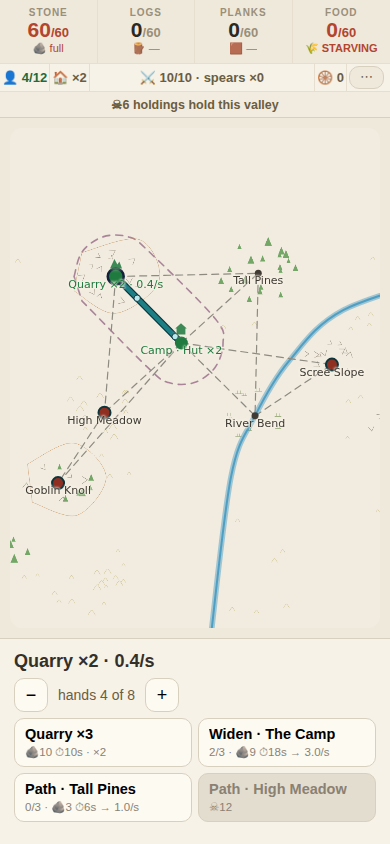
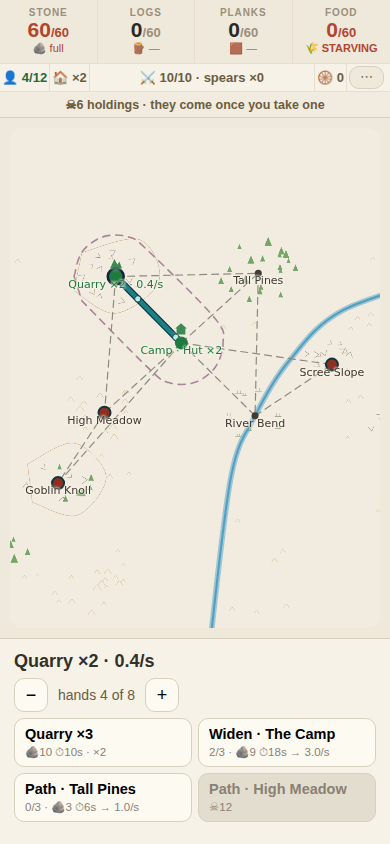
THE HUT BUG WAS ONE LINE, AND A RAID NOW HAS AN ANSWER
"my save got super bugged, huts were disappearing... also the goblin raids
mechanics is unclear how it happens, why and what can you do about it."

IT WAS NOT A CORRUPT SAVE. The rule was "come for the fullest thing you
can reach", and the fullest pile in any town is the camp's HUTS. So every
raider on the map queued up on the housing, which is the one stack that
gates people, and people gate everything else. Simulated on a going
concern with three raiders, before the fix:

  start          huts 5   pop cap 24
  after raid 1   huts 2   pop cap 12
  after raid 2   huts 0   pop cap  4     twenty people unhoused and idle

and then the camp fell and the run froze, which is what a bugged save
looks like from the outside. The comment beside the bare-ground branch
already claimed the camp goes last; it simply was not true of ground with
anything standing on it. It is now, and the works are eaten first.

WHAT YOU CAN DO ABOUT IT had no answer at all. The only lever was to
conquer the holding faster, which a town under three raiders often
cannot. A hero AT HOME -- not fighting, not foraging, not beaten -- now
turns one raid away, and bleeds that holding while doing it, so defending
is also slow progress toward taking it.

ONE HERO, ONE GATE. The first cut let a single idle hero repel every
holding on the map in the same instant, which is the mechanic deleting
itself: I simulated it, saw eight straight cycles with nothing lost at
[…]

Changed region(s): [[0.1846, 0.0924, 0.8308, 0.154]]

diff --git a/test/campbuilder.test.ts b/test/campbuilder.test.ts
@@ -13,7 +13,7 @@ import { apply, initial, flow, shown, popCap, pathKey, costOf, pathCostOf, heroM
   richOf, MAX_GAUGE, roomOf, storeCost, STORE_BASE, STORE_ROOM,
   carriesOf, cartCost, cartHaul, CART_GAIN,
   raiders, raidTarget, RAID_SECS, CAMP_ROOM,
-  FORAGE_SECS, FORAYS, nextForay, unforageable, faminePinch, START_FOOD, FAMINE_DEEP,
+  FORAGE_SECS, FORAYS, nextForay, unforageable, faminePinch, START_FOOD, FAMINE_DEEP, onWatch,
   RATION_FOOD, RATION_HP, RATION_PACK,
   BLOW_SECS, blowLeft, SPEAR_NAME, SPEAR_MADE, spearLabel,
   HERO_HP, HEAL_SECS, WILD_FED, EAT, CAPTIVES,
@@ -1646,8 +1646,14 @@ describe('★★★ THE RAID — held ground takes something back', () => {
   // ⚠ `taken: 1` IS LOAD-BEARING: the goblins ignore a camp that has never
   // touched them (see FIRST BLOOD below), so a besieged fixture has to have
   // drawn blood already.
+  // ⚠ THE HERO IS OUT, AND THAT IS LOAD-BEARING (2026-08-10). A hero at home
+  // turns one raid away, and `hp: 0` is not enough on its own because a
+  // 300-second cycle is long enough for them to HEAL — which is a real and
+  // wanted property (one healed hero can just about hold one gate), but it
+  // means a fixture about a raid LANDING has to keep them genuinely away.
   const pressed = (over: Partial<City> = {}): City => ({
     ...initial(), pop: 12, food: 900, taken: 1,
+    hero: { hp: 0, spears: 0, part: 0 }, forage: { left: 9e8, secs: 9e8 },
     stacks: { 0: 4, 1: 2 }, paths: { [pathKey(0, 1)]: 2 },
     goblins: { 4: 12 }, ...over });
 
@@ -1680,9 +1686,12 @@ describe('★★★ THE RAID — held ground takes something back', () => {
     const half = tick(g, RAID_SECS / 2);
     expect(half.menace[4]).toBeCloseTo(0.5, 2);
     expect(half.stacks[0]).toBe(4);
-    // ...and when it comes due, the camp loses a hut and the holding resets.
+    // ...and when it comes due a BUILDING goes and the holding resets.
+    // ⚠ Not the camp's hut: since 2026-08-10 the camp is last for stacked
+    // ground too, so the pit at Rock Face is what they come for.
     const hit = tick(g, RAID_SECS + 1);
-    expect(hit.stacks[0]).toBe(3);
+    expect(hit.stacks[1]).toBe(1);
+    expect(hit.stacks[0]).toBe(4);
     expect(hit.menace[4]).toBe(0);
   });
 
@@ -1691,9 +1700,11 @@ describe('★★★ THE RAID — held ground takes something back', () => {
     // 144 raids' worth of time. Not one of them lands.
     const away = catchUp(pressed(), 12 * 3600);
     expect(away.stacks[0]).toBe(4);
-    // It waits at the gate, full, and breaks on the first watched tick.
+    expect(away.stacks[1]).toBe(2);
+    // It waits at the gate, full, and breaks on the first watched tick —
+    // taking the works, with the camp's roof still last in the queue.
     expect(away.menace[4]).toBe(1);
-    expect(tick(away, 1).stacks[0]).toBe(3);
+    expect(tick(away, 1).stacks[1]).toBe(1);
   });
 
   it('★ a raid never digs a stack below nothing, and never touches the goods', () => {
@@ -1731,8 +1742,10 @@ describe('★★★ THE RAID — held ground takes something back', () => {
 // half of the owner's answer: *"make hero lose and restart stronger."*
 // ---------------------------------------------------------------------------
 describe('★★★ LOSE THE VALLEY, KEEP THE VETERAN', () => {
+  // ⚠ Out on a foray — see `pressed` above.
   const war = (over: Partial<City> = {}): City => ({
     ...initial(), pop: 12, food: 900, taken: 1,
+    hero: { hp: 0, spears: 0, part: 0 }, forage: { left: 9e8, secs: 9e8 },
     stacks: { 0: 1 }, goblins: { 4: 12 }, ...over });
 
   it('★★★ FIRST BLOOD STARTS THE WAR — an untouched camp is never raided', () => {
@@ -2264,5 +2277,76 @@ describe('★★★ FOOD MATTERS FROM THE START, AND FAMINE IS A SQUEEZE', () =>
     const hungry: City = { ...initial(), famine: 60, food: 500, pop: 4 };
     expect(tick(hungry, 10).famine).toBeCloseTo(40, 6);
     expect(tick(hungry, 600).famine).toBe(0);
+  });
+});
+
+// ---------------------------------------------------------------------------
+// ★★★ THE RAID, MADE FAIR AND MADE PLAIN — 2026-08-10. The owner: *"my save got
+// super bugged, huts were disappearing… also the goblin raids mechanics is
+// unclear how it happens, why and what can you do about it."*
+// ---------------------------------------------------------------------------
+describe('★★★ RAIDS EAT THE WORKS, NOT THE ROOF', () => {
+  const town = (over: Partial<City> = {}): City => ({ ...initial(), taken: 1,
+    pop: 20, food: 9e5, stacks: { 0: 5, 1: 3, 2: 3, 3: 2 },
+    paths: { [pathKey(0, 1)]: 2, [pathKey(0, 2)]: 2, [pathKey(0, 3)]: 2 },
+    hero: { hp: 0, spears: 1, part: 0 }, ...over });
+
+  it('★★★ THE HUT BUG: the camp was the fullest pile, so every raid ate it', () => {
+    // This is what "my huts kept disappearing" was. The rule said "come for
+    // the fullest thing you can reach" and the fullest pile in ANY town is
+    // the camp's huts — so every raider on the map queued on the housing,
+    // which is the one stack that gates people, which gate everything.
+    const g = town();
+    // Raiders that have a works within reach come for the WORKS.
+    expect(raidTarget(g, 4)).not.toBe(0);
+    expect(raidTarget(g, 5)).not.toBe(0);
+    expect(SITE.get(raidTarget(g, 4)!)!.allows).not.toBe('hut');
+  });
+
+  it('★★ housing survives while there is anything else to take', () => {
+    // Measured over three cycles: before the fix, huts went 5 → 2 → 0 and
+    // the population cap collapsed 24 → 4 with twenty people left idle.
+    let g = town();
+    const capBefore = popCap(g);
+    for (let i = 0; i < 2; i++) g = tick(g, RAID_SECS + 1);
+    expect(g.stacks[0]!).toBeGreaterThan(0);
+    expect(popCap(g)).toBeGreaterThan(capBefore / 2);
+  });
+
+  it('★★★ THE ANSWER: a hero at home turns a raid away', () => {
+    // "What can you do about it" had no answer but "conquer faster", which
+    // a town under three raiders often cannot.
+    const away: City = { ...town(), hero: { hp: 0, spears: 1, part: 0 } };
+    expect(onWatch(away)).toBe(false);
+    const home: City = { ...town(), hero: { hp: heroMax(town()), spears: 1, part: 0 } };
+    expect(onWatch(home)).toBe(true);
+    const hit = tick(away, RAID_SECS + 1);
+    const held = tick(home, RAID_SECS + 1);
+    const lost = (x: City): number => [0, 1, 2, 3]
+      .reduce((n, id) => n + ((town().stacks[id] ?? 0) - (x.stacks[id] ?? 0)), 0);
+    expect(lost(held)).toBeLessThan(lost(hit));
+    // And turning one away BLEEDS that holding — defending is slow progress.
+    expect(held.goblins[4]!).toBeLessThan(home.goblins[4]!);
+  });
+
+  it('★★★ ONE HERO, ONE GATE — standing watch is not a wall', () => {
+    // A single idle hero used to repel every holding on the map in the same
+    // instant, which is the mechanic deleting itself.
+    const home: City = { ...town(), hero: { hp: heroMax(town()), spears: 1, part: 0 } };
+    expect(raiders(home).length).toBeGreaterThan(1);
+    const after = tick(home, RAID_SECS + 1);
+    const lost = [0, 1, 2, 3]
+      .reduce((n, id) => n + ((home.stacks[id] ?? 0) - (after.stacks[id] ?? 0)), 0);
+    expect(lost).toBeGreaterThan(0);            // some got through
+    expect(lost).toBeLessThan(raiders(home).length);   // but not all
+  });
+
+  it('★★ the watch costs the foray and the march — you cannot do both', () => {
+    const home: City = { ...town(), hero: { hp: heroMax(town()), spears: 1, part: 0 } };
+    expect(onWatch(apply(home, { type: 'forage' }))).toBe(false);
+    expect(onWatch({ ...home, fight: { site: 4, sq: [], round: 0, packs: 0,
+      target: 0, blow: null } as never })).toBe(false);
+    // And a hero beaten home cannot hold the walls either.
+    expect(onWatch({ ...home, hero: { hp: 0, spears: 1, part: 0 } })).toBe(false);
   });
 });

diff --git a/src/camp/engine.ts b/src/camp/engine.ts
@@ -138,7 +138,26 @@ export function raidTarget(g: City, id: number): number | null {
   for (const n of s.near) {
     if (g.goblins[n]) continue;
     if ((g.stacks[n] ?? 0) > 0) {
-      if (best === null || (g.stacks[n] ?? 0) > (g.stacks[best] ?? 0)) best = n;
+      // ★★★ THE CAMP IS LAST FOR STACKED GROUND TOO, 2026-08-10.
+      //
+      // ⚠ THIS IS THE "MY HUTS KEPT DISAPPEARING" BUG, and it was not a save
+      // corruption — it was this line. The rule was "come for the fullest
+      // thing you can reach", and the fullest pile in any town is the CAMP's
+      // huts. So every raider on the map queued up on the camp and ate
+      // housing, which is the one stack that gates everything else.
+      //
+      // Simulated before the fix, three raiders on a going concern:
+      //   start   huts 5   cap 24
+      //   raid 1  huts 2   cap 12
+      //   raid 2  huts 0   cap  4   ← twenty people now unhoused and idle
+      // and the run was over inside two cycles, opaquely.
+      //
+      // The comment beside `bare` below already claimed the camp goes last.
+      // It just was not true of the ground that had anything on it.
+      const better = best === null
+        || (best === 0 && n !== 0)
+        || (n !== 0 && (g.stacks[n] ?? 0) > (g.stacks[best] ?? 0));
+      if (better && !(n === 0 && best !== null && best !== 0)) best = n;
     } else if (bare === null || (bare === 0 && n !== 0)) {
       // ★ NOTHING LEFT TO BURN MEANS THEY TAKE THE GROUND. A site they
       // strip bare is a site they can hold — and THE CAMP LAST OF ALL,
@@ -576,6 +595,16 @@ export const FORAYS: readonly Foray[] = [
 ];
 /** Which encounter the next foray meets. */
 export const nextForay = (g: City): Foray => FORAYS[g.forays % FORAYS.length]!;
+/** ★★★ IS THE HERO STANDING WATCH? Home, whole enough to fight, and not
+ *  away on a foray. The owner, after a run: *"the goblin raids mechanics is
+ *  unclear how it happens, why and what can you do about it."* The last
+ *  third had no answer — the only lever was to conquer the holding faster,
+ *  which a town under three raiders often cannot do. A hero kept at home
+ *  turns raids away, so the player's real choice is now what to spend the
+ *  hero's time ON: loot, ground, or the walls. */
+export const onWatch = (g: City): boolean =>
+  !g.lost && !g.fight && !g.forage && g.hero.hp > 0;
+
 /** Seconds left on the hero's foray, or null when they are home. */
 export const forageLeft = (g: City): number | null => g.forage?.left ?? null;
 /** Why the hero cannot go out, or null. */
@@ -1422,6 +1451,12 @@ export function apply(g: City, a: Action): City {
         else { loot = nextForay(g).loot; forays = g.forays + 1; forage = null; }
       }
       let lost: boolean = g.lost;
+      // ⚠ ONE HERO, ONE GATE. Read once before any raid resolves, and SPENT
+      // by the first one turned away — otherwise a single idle hero repelled
+      // every holding on the map at once and the war became free, which is
+      // the mechanic deleting itself. Three raiders means one is stopped and
+      // two get through; the defence is real, and it is not a wall.
+      let watch = onWatch(g);
       if (!a.away) {
         for (const id of able) {
           if ((menace[id] ?? 0) < 1) continue;
@@ -1429,6 +1464,17 @@ export function apply(g: City, a: Action): City {
           if (t === null) continue;
           if (menace === g.menace) menace = { ...g.menace };
           menace[id] = 0;
+          // ★★★ THE HERO TURNS IT AWAY. Standing watch costs the foray and
+          // the march, which is the price: you cannot loot, take ground and
+          // hold the walls with one person. A repelled raid BLEEDS the
+          // holding, so defending is also slow progress toward taking it.
+          if (watch) {
+            watch = false;
+            if (goblins === g.goblins) goblins = { ...goblins };
+            goblins[id] = Math.max(1, (goblins[id] ?? 1) - heroHit(g));
+            hero = { ...hero, hp: Math.max(0, hero.hp - (GOBLINS[id]?.bite ?? 2)) };
+            continue;
+          }
           if ((stacks[t] ?? 0) > 0) {
             if (stacks === g.stacks) stacks = { ...g.stacks };
             stacks[t] = stacks[t]! - 1;

diff --git a/src/ui/Camp.svelte b/src/ui/Camp.svelte
@@ -9,7 +9,7 @@
     priceLine, unlayable, unraisable, unassailable, heroHit, spearCost, hunger,
     heroMax, WILD_FED, SITE, GOBLINS, RATE, MAX_GAUGE, CREW, PATH_SECS,
     raisingLeft, buildSecs, housed, blowLeft, spearLabel, SPEAR_MADE,
-    unforageable, nextForay, forageLeft, FORAGE_SECS,
+    unforageable, nextForay, forageLeft, FORAGE_SECS, onWatch, RAID_SECS,
     richOf, storeCost, roomOf, STORE_ROOM, cartCost, cartHaul, CARRY, CART_GAIN,
     raiders, raidTarget,
     windup, RATION_FOOD, RATION_HP,
@@ -447,8 +447,13 @@
       // which broke the check that the gates advertise their own artery.
       const m = game.menace[picked] ?? 0;
       const at = raidTarget(game, picked);
+      // ★ THE WHOLE RULE, where the danger is: how full the clock is, what
+      // it comes for, how often, and the two things that stop it.
       const clock = m > 0 && at !== null
         ? ` · ${MARK.waste}${Math.round(m * 100)}% → ${SITE.get(at)?.name ?? ''}`
+          + ` every ${RAID_SECS}s · takes 1 building`
+          + ` · ${onWatch(game) ? `${MARK.hero} home turns one away`
+            : `${MARK.hero} away — nothing turns it away`}`
         : '';
       return `${MARK.danger}${Math.ceil(game.goblins[picked] ?? 0)}`
         + prizeOf(picked) + clock;
@@ -659,12 +664,22 @@
          camp is gonna happen. And if it's gonna happen."* The raid clock
          existed but only on the holding's own panel, which you had to go and
          tap — a war you cannot see coming is not a clock. -->
+    <!-- ★★★ HOW, WHY, AND WHAT TO DO — 2026-08-10. The owner: *"the goblin
+         raids mechanics is unclear how it happens, why and what can you do
+         about it."* All three go on one line, always:
+           HOW  — a percentage that fills, and the site it is coming for
+           WHY  — it only starts once you have taken ground (first blood)
+           WHAT — the hero stops one raid by being HOME, and taking the
+                  holding stops its clock for good -->
     <div class="warline" class:hot={worst !== null && worst.m > 0.6} data-q="war">
       {#if worst !== null}
         {MARK.waste}{Math.round(worst.m * 100)}% → {worst.at}
+        · {onWatch(game) ? `${MARK.hero} on watch` : `${MARK.hero} away`}
         · {MARK.danger}{holdings} left
+      {:else if holdings > 0}
+        {MARK.danger}{holdings} holdings · they come once you take one
       {:else}
-        {MARK.danger}{holdings} holdings hold this valley
+        {MARK.danger}0 · the valley is yours
       {/if}
     </div>
     {#if menu}

diff --git a/docs/CITY.md b/docs/CITY.md
@@ -817,3 +817,58 @@ guard, which is how it was caught.
 halt the quarries stopped dead and the bread got through on the very next
 frame. A squeeze has to bite before it frees the road, so a measured town
 digs itself out in tens of seconds rather than instantly.
+
+
+## ★★★ THE HUT BUG, AND WHAT YOU CAN DO ABOUT A RAID — 2026-08-10
+
+> *"my save got super bugged, huts were disappearing… also the goblin raids
+> mechanics is unclear how it happens, why and what can you do about it"*
+
+**It was not a corrupt save. It was one line.** The rule was *"come for the
+fullest thing you can reach"*, and the fullest pile in any town is the camp's
+**huts** — so every raider on the map queued on the housing, which is the one
+stack that gates people, and people gate everything. Simulated before the fix,
+three raiders on a going concern:
+
+| | huts | pop cap |
+|---|---|---|
+| start | 5 | 24 |
+| after raid 1 | 2 | 12 |
+| after raid 2 | **0** | **4** |
+
+Twenty people unhoused and idle, then the camp fell. The comment beside the
+bare-ground branch **already claimed the camp goes last** — it just was not
+true of ground with anything on it. It is now.
+
+### What you can do about it: three answers, all on screen
+
+The last third of the complaint had no answer at all. The only lever was to
+conquer the holding faster, which a town under three raiders often cannot.
+
+1. **Keep the hero home.** A hero at the camp — not fighting, not foraging,
+   not beaten — **turns one raid away** and bleeds that holding doing it, so
+   defending is slow progress toward taking it.
+2. **Take the holding.** That stops its clock for good.
+3. **Build more than they can eat.** Each building is 150 seconds of somebody
+   else's work.
+
+⚠ **One hero, one gate.** The first cut let a single idle hero repel every
+holding on the map in the same instant, which is the mechanic deleting
+itself. The watch is spent by the first raid it turns away: three raiders
+means one is stopped and two get through.
+
+**And it made the hero's time a real choice** — loot, ground, or the walls,
+never all three. That is the trade the foray was missing.
+
+### Said on screen, always
+
+The war line carries all three questions: `⚠70% → Rock Face · ⚔ on watch ·
+☠6 left` — how full, what it comes for, whether anything can stop it, and how
+much of the valley is still theirs. Before first blood it reads *"they come
+once you take one"*, which is the **why**.
+
+⚠ **An emergent property worth knowing:** a 300-second raid cycle is almost
+exactly what one healed hero can hold off, so a town that keeps its hero home
+holds one gate indefinitely and loses the others. That fell out of the
+numbers rather than being designed, and it is why several test fixtures now
+have to send the hero away explicitly to make a raid land at all.

diff --git a/docs/BACKLOG.md b/docs/BACKLOG.md
@@ -879,3 +879,13 @@ facts.
      goods-coloured inks must each clear every counted ink by its own net, and
      a colour near a counted one has silently made three checks vacuous in
      this repo before. Measure first, as with the ward.
+
+- [x] ✔ FIXED 2026-08-10 — **★★★ "huts were disappearing" was not a save bug.**
+  `raidTarget` came for the fullest stack, which is always the camp's housing,
+  so every raider ate the roof and the pop cap collapsed 24 → 4 in two cycles.
+  The camp is last for stacked ground now, as the code already claimed for bare
+  ground.
+- [x] ✔ DONE 2026-08-10 — **★★★ "what can you do about it" had no answer.** A
+  hero at home turns one raid away and bleeds that holding; one hero holds one
+  gate, so the watch is a choice against foraging and marching rather than a
+  wall. All three questions — how, why, what — are on the war line permanently.
